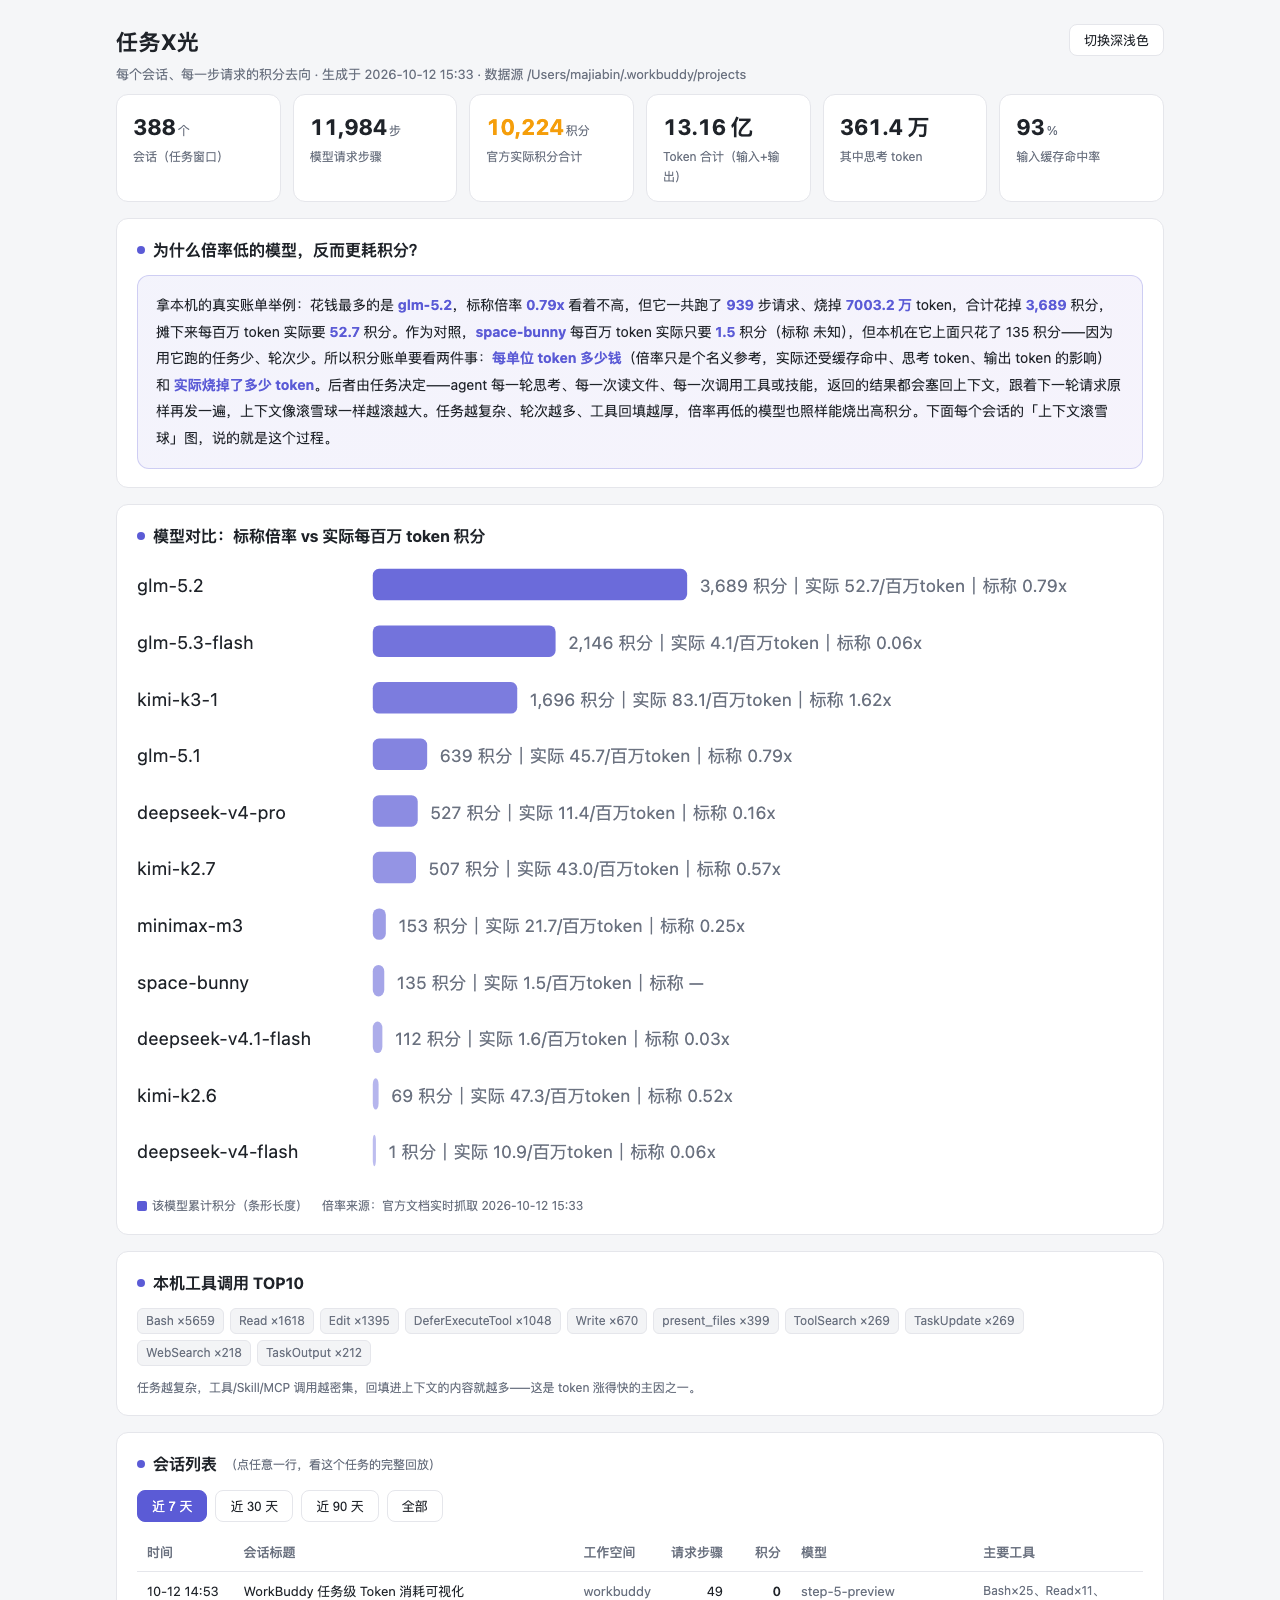
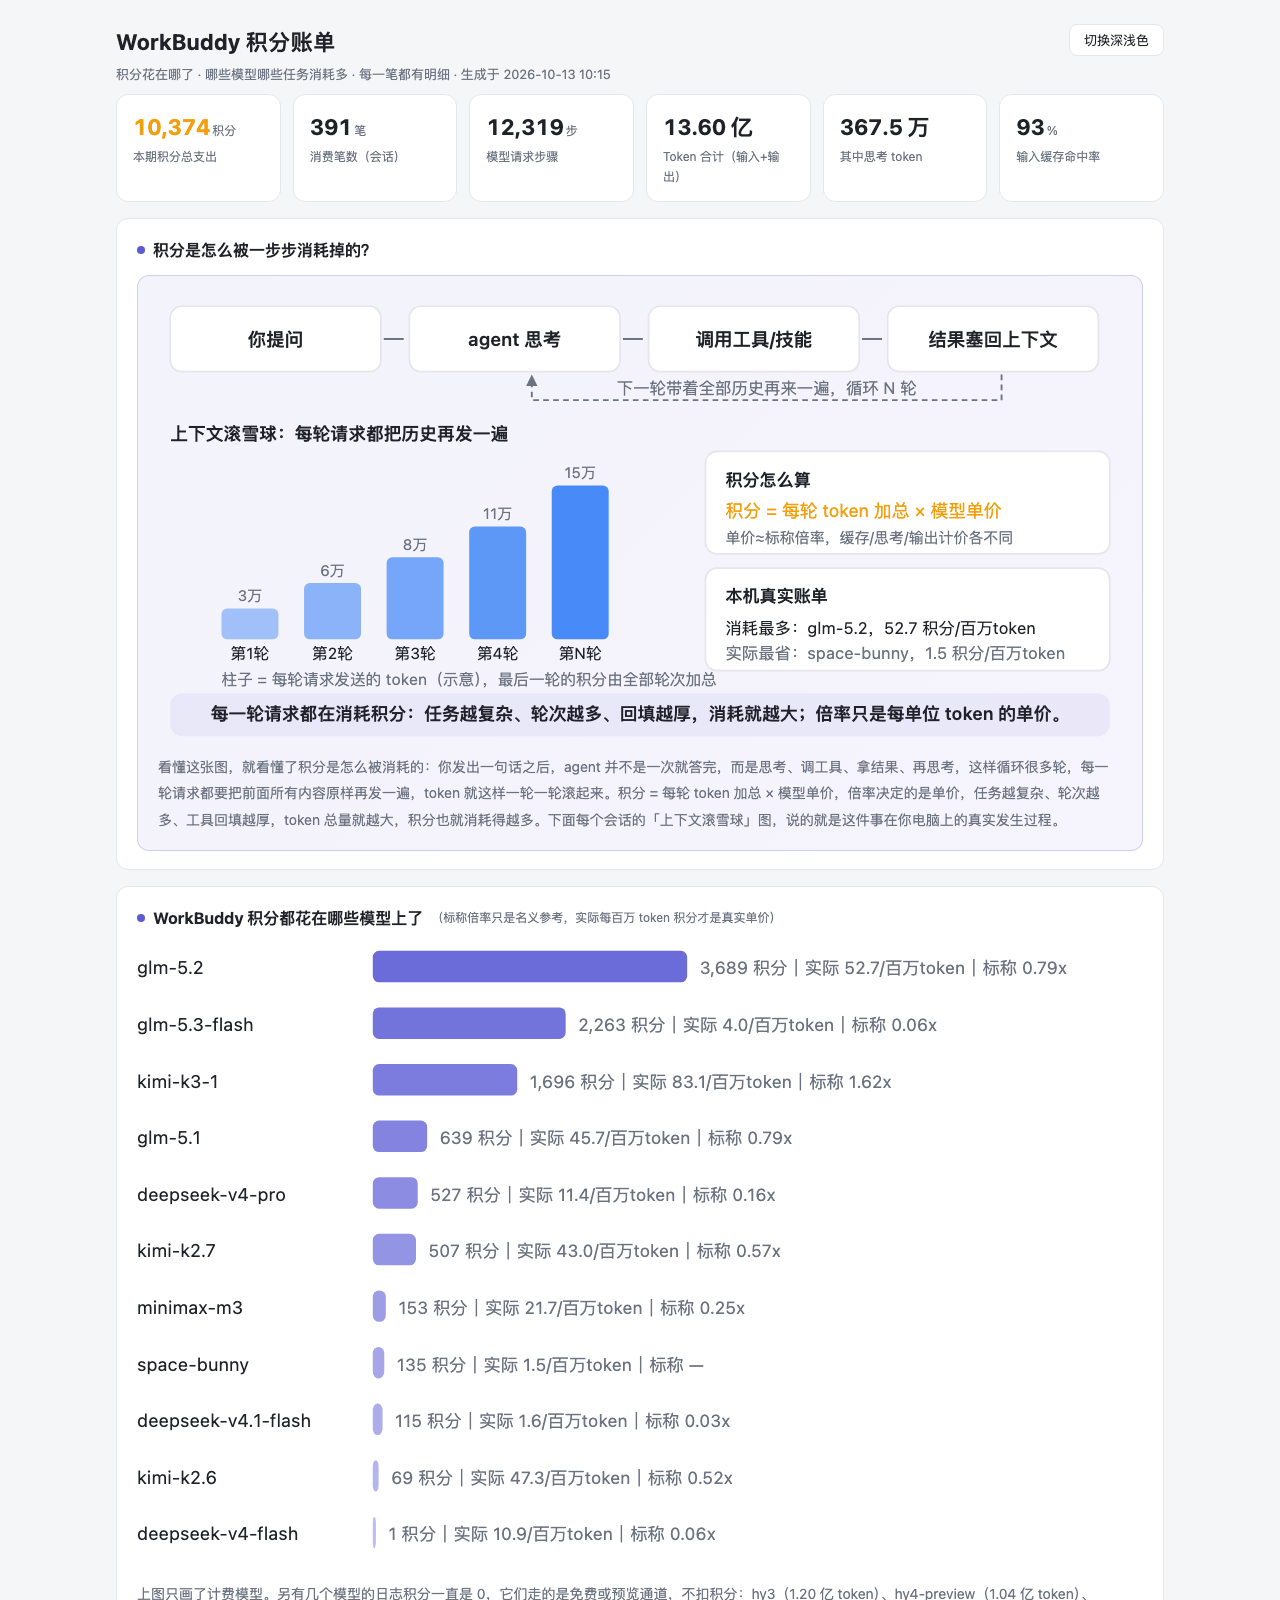
README 截图更新为积分账单正式版 + 发布前收尾
- 两张 README 截图重拍：旧图还是「任务X光」品牌，与账单定位不符；新图为正式账单版（KPI 总支出居首、消耗过程图解、明细回放选自内容干净的示例会话）
- README「装好之后怎么说」与 SKILL.md 行为对齐：首次使用主动建固定入口+每日定时，无需用户再确认
- .gitignore 排除生成的 credit-bill.html（各用户本地生成，不入库）
- multipliers.json 倍率缓存随最新抓取更新

diff --git a/README.md b/README.md
@@ -34,7 +34,7 @@
 
 ## 装好之后怎么说
 
-装好以后，你直接在对话里跟 AI 说「看看我的积分花在哪」，或者说「生成我的积分账单」，它就会帮你跑一遍，然后把账单打出来给你。第一次用的时候，它还会问你要不要建一个固定入口，建议是要，这样以后每天上午九点它都会自动帮你刷新一份最新的账单，你在左边菜单的资料库里点开就能看，不用每次重新说。
+装好以后，你直接在对话里跟 AI 说「看看我的积分花在哪」，或者说「生成我的积分账单」，它就会帮你跑一遍，然后把账单打出来给你。第一次用的时候，它还会顺手帮你建一个固定入口，并且问都不用你再问，直接建好一个每天上午九点自动刷新的定时任务，以后你每天在左边菜单的资料库里点开就能看到最新的账单，不用每次重新说。
 
 ## 大家可能想问的
 
